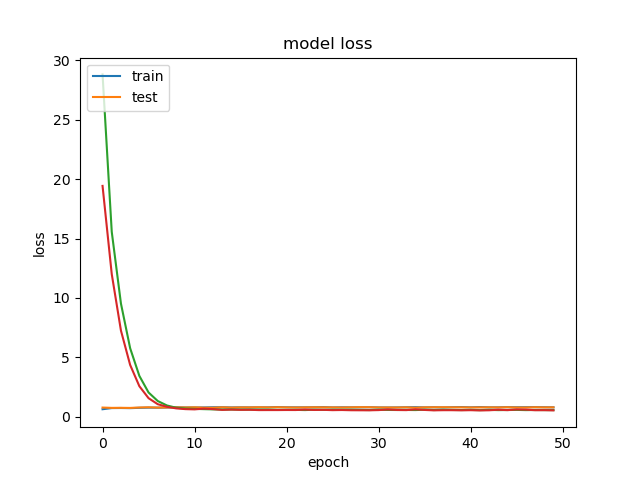
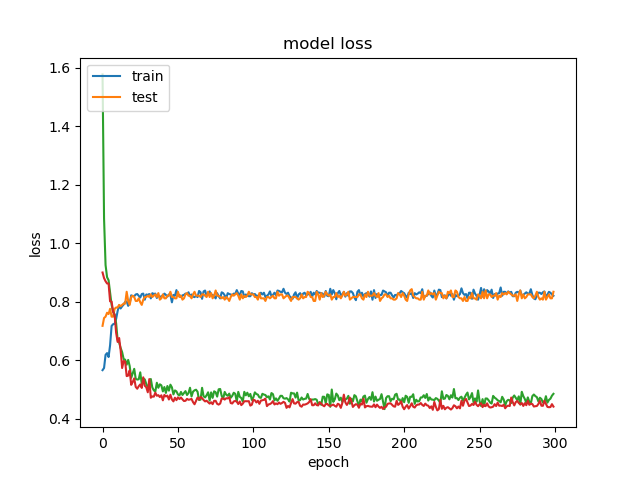
Experimenting with less nodes
[CHANGED]
-Changed optimizer to nadam, works better
-Decreased the amount of nodes per layer to decrease training time and it still works as fine

diff --git a/titanic.py b/titanic.py
@@ -186,57 +186,59 @@ x_train, x_validation, y_train, y_validation = train_test_split( x_train.T, y_tr
 model = Sequential([
     Input(7),
 
-    Dense(  512, 
+    Dense(  32, 
             kernel_initializer=he_normal(),
-            kernel_regularizer=regularizers.l2(0.01)
+            kernel_regularizer=regularizers.l2(0.001)
             ),
 
     Activation('relu'),
 
     Dropout(0.5),
 
-    Dense(  512, 
+    Dense(  32, 
             kernel_initializer=he_normal(),
-            kernel_regularizer=regularizers.l2(0.01)
+            kernel_regularizer=regularizers.l2(0.001)
             ),
     
     Activation('relu'),
 
     Dropout(0.5),
     
-    Dense(  1024, 
+    Dense(  64, 
             kernel_initializer=he_normal(),
-            kernel_regularizer=regularizers.l2(0.01)
+            kernel_regularizer=regularizers.l2(0.001)
             ),
 
     Activation('relu'),
 
     Dropout(0.5),
 
-    Dense(  1024, 
+    Dense(  64, 
             kernel_initializer=he_normal(),
-            kernel_regularizer=regularizers.l2(0.01)
+            kernel_regularizer=regularizers.l2(0.001)
             ),
-
-    Activation('relu'),
 
     Dropout(0.5),
 
-    Dense(1, kernel_initializer=he_normal()),
+    Activation('relu'),
+
+    Dense(  1, 
+            ),
+
     Activation('sigmoid'),
+    
     ])
 
 lr_schedule = optimizers.schedules.InverseTimeDecay(
     0.001,
-    decay_steps=623*100,
-    decay_rate=1,
-    staircase=False
+    decay_steps=668*25,
+    decay_rate=0.5,
     )
 
 # Compile the model to use categorial cross entropy loss, 
 model.compile(  
     loss='binary_crossentropy', 
-    optimizer='adam',
+    optimizer='nadam',
     # optimizer=optimizers.Adam(lr_schedule),
     metrics=['accuracy']
     )
@@ -246,7 +248,7 @@ history = model.fit(
     x_train, 
     y_train, 
     validation_data=(x_validation, y_validation), 
-    epochs=50,
+    epochs=300,
     batch_size=1
     )
 
